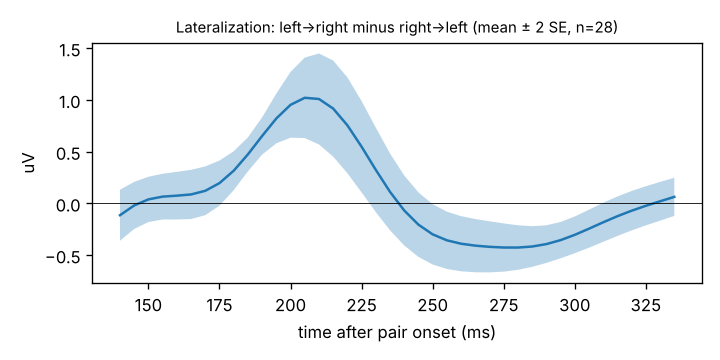
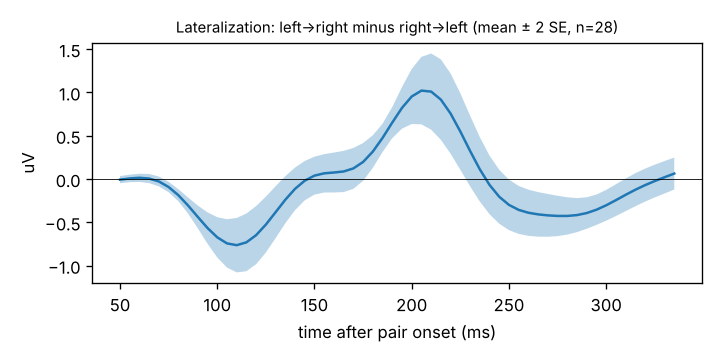
Start epoch window at 0.05 s to include the first stimulus response
Window is now [0.05, 0.34) s (58 samples at 200 Hz). The first lateral
stimulus of each pair evokes a P1-N1 at ~90-130 ms (t = -6.6), which the
previous 0.14 s start excluded. Lag-0 LDA accuracy 0.748 (was 0.739),
peak at lag 0 in 28/28 subjects. Docs, counts and verification report
regenerated.

Claude-Session: https://claude.ai/code/session_01D8wTpTsnSxZQwhroHRiJ2U

diff --git a/aved/config.py b/aved/config.py
@@ -31,7 +31,7 @@ class BadChannelConfig:
 
 @dataclass(frozen=True)
 class EpochConfig:
-    tmin: float = 0.14
+    tmin: float = 0.05
     tmax: float = 0.34
     baseline: None = None
 

diff --git a/reports/preprocessing_verification.md b/reports/preprocessing_verification.md
@@ -1,6 +1,6 @@
 # Preprocessing verification
 
-Generated by `scripts/verify_preprocessing.py` (config fingerprint `e7b2e8457408`).
+Generated by `scripts/verify_preprocessing.py` (config fingerprint `e05e4379886f`).
 
 ## 1. Event structure
 - All 168 event files parsed: 16 markers x (1 + 30 trials) each; markers equal Session_INFO.txt: **OK**
@@ -29,7 +29,7 @@ Generated by `scripts/verify_preprocessing.py` (config fingerprint `e7b2e8457408
 ## 4. Extracted trials vs event files
 - Labels and onsets in every SubXX.npz equal a fresh parse of the event files; label = (trigger == 2): **OK**
 - Trials per file: min 480, max 480; all windows inside recording: True
-- Total trials: 80640 (left->right 40320, right->left 40320); artifact-flagged: 11
+- Total trials: 80640 (left->right 40320, right->left 40320); artifact-flagged: 19
 
 ## 5. Reproducibility
 - Re-processing Sub01 session 3 reproduces the saved trials bit-for-bit: **OK**
@@ -37,44 +37,44 @@ Generated by `scripts/verify_preprocessing.py` (config fingerprint `e7b2e8457408
 ## 6. Lateralization time course (grand average, clean trials, all subjects)
 Class difference (left->right minus right->left) of the hemispheric difference, mean over the 9 mirror pairs, uV:
 
-| t (ms) | 140 | 160 | 180 | 200 | 220 | 240 | 260 | 280 | 300 | 320 |
-|---|---|---|---|---|---|---|---|---|---|---|
-| mean | -0.11 | +0.07 | +0.32 | +0.95 | +0.75 | -0.07 | -0.39 | -0.43 | -0.30 | -0.07 |
-| t-stat | -0.9 | +0.7 | +3.4 | +6.0 | +3.3 | -0.4 | -2.9 | -4.0 | -3.4 | -0.7 |
+| t (ms) | 50 | 70 | 90 | 110 | 130 | 150 | 170 | 190 | 210 | 230 | 250 | 270 | 290 | 310 | 330 |
+|---|---|---|---|---|---|---|---|---|---|---|---|---|---|---|---|
+| mean | -0.01 | -0.03 | -0.44 | -0.76 | -0.38 | +0.04 | +0.12 | +0.65 | +1.01 | +0.32 | -0.30 | -0.42 | -0.39 | -0.18 | +0.02 |
+| t-stat | -0.4 | -1.0 | -6.6 | -4.9 | -2.6 | +0.4 | +1.0 | +7.3 | +4.6 | +1.6 | -2.1 | -3.4 | -4.3 | -1.9 | +0.2 |
 
 ## 7. Trial-label alignment: decoding the label of trial t+lag from epoch t
 Leave-one-session-out shrinkage LDA on all channels x samples, clean trials only. If trials and labels are aligned, accuracy peaks at lag 0.
 
 | subject | lag -1 | lag +0 | lag +1 | permuted | peak lag |
 |---|---|---|---|---|---|
-| Sub01 | 0.536 | 0.720 | 0.586 | 0.508 | +0 |
-| Sub02 | 0.607 | 0.922 | 0.783 | 0.513 | +0 |
-| Sub03 | 0.547 | 0.661 | 0.533 | 0.507 | +0 |
-| Sub04 | 0.547 | 0.677 | 0.553 | 0.520 | +0 |
-| Sub05 | 0.506 | 0.576 | 0.505 | 0.517 | +0 |
-| Sub06 | 0.518 | 0.726 | 0.614 | 0.504 | +0 |
-| Sub07 | 0.555 | 0.711 | 0.620 | 0.498 | +0 |
-| Sub08 | 0.528 | 0.705 | 0.594 | 0.521 | +0 |
-| Sub09 | 0.536 | 0.688 | 0.577 | 0.523 | +0 |
-| Sub10 | 0.562 | 0.804 | 0.593 | 0.497 | +0 |
-| Sub11 | 0.542 | 0.789 | 0.603 | 0.499 | +0 |
-| Sub12 | 0.594 | 0.754 | 0.575 | 0.500 | +0 |
-| Sub13 | 0.554 | 0.676 | 0.528 | 0.486 | +0 |
-| Sub14 | 0.551 | 0.633 | 0.535 | 0.499 | +0 |
-| Sub15 | 0.655 | 0.869 | 0.655 | 0.494 | +0 |
-| Sub16 | 0.515 | 0.616 | 0.527 | 0.491 | +0 |
-| Sub17 | 0.543 | 0.627 | 0.496 | 0.503 | +0 |
-| Sub18 | 0.580 | 0.932 | 0.803 | 0.493 | +0 |
-| Sub19 | 0.577 | 0.844 | 0.637 | 0.503 | +0 |
-| Sub20 | 0.558 | 0.764 | 0.577 | 0.501 | +0 |
-| Sub21 | 0.523 | 0.740 | 0.568 | 0.468 | +0 |
-| Sub22 | 0.537 | 0.725 | 0.582 | 0.518 | +0 |
-| Sub23 | 0.547 | 0.724 | 0.581 | 0.502 | +0 |
-| Sub24 | 0.562 | 0.777 | 0.626 | 0.501 | +0 |
-| Sub25 | 0.534 | 0.772 | 0.584 | 0.507 | +0 |
-| Sub26 | 0.535 | 0.753 | 0.604 | 0.508 | +0 |
-| Sub27 | 0.534 | 0.760 | 0.594 | 0.481 | +0 |
-| Sub28 | 0.533 | 0.760 | 0.588 | 0.501 | +0 |
-| **mean** | **0.551** | **0.739** | **0.594** | 0.502 | |
+| Sub01 | 0.558 | 0.743 | 0.588 | 0.495 | +0 |
+| Sub02 | 0.711 | 0.931 | 0.785 | 0.510 | +0 |
+| Sub03 | 0.597 | 0.658 | 0.521 | 0.518 | +0 |
+| Sub04 | 0.586 | 0.683 | 0.546 | 0.512 | +0 |
+| Sub05 | 0.537 | 0.580 | 0.501 | 0.512 | +0 |
+| Sub06 | 0.551 | 0.749 | 0.599 | 0.516 | +0 |
+| Sub07 | 0.584 | 0.734 | 0.613 | 0.498 | +0 |
+| Sub08 | 0.561 | 0.735 | 0.582 | 0.522 | +0 |
+| Sub09 | 0.566 | 0.719 | 0.575 | 0.490 | +0 |
+| Sub10 | 0.620 | 0.815 | 0.594 | 0.501 | +0 |
+| Sub11 | 0.605 | 0.821 | 0.593 | 0.503 | +0 |
+| Sub12 | 0.654 | 0.758 | 0.573 | 0.503 | +0 |
+| Sub13 | 0.608 | 0.677 | 0.524 | 0.501 | +0 |
+| Sub14 | 0.583 | 0.632 | 0.541 | 0.491 | +0 |
+| Sub15 | 0.746 | 0.865 | 0.648 | 0.498 | +0 |
+| Sub16 | 0.528 | 0.609 | 0.527 | 0.499 | +0 |
+| Sub17 | 0.577 | 0.623 | 0.492 | 0.486 | +0 |
+| Sub18 | 0.719 | 0.943 | 0.792 | 0.498 | +0 |
+| Sub19 | 0.737 | 0.848 | 0.622 | 0.493 | +0 |
+| Sub20 | 0.668 | 0.760 | 0.568 | 0.501 | +0 |
+| Sub21 | 0.645 | 0.749 | 0.564 | 0.466 | +0 |
+| Sub22 | 0.641 | 0.724 | 0.572 | 0.505 | +0 |
+| Sub23 | 0.647 | 0.731 | 0.576 | 0.505 | +0 |
+| Sub24 | 0.651 | 0.780 | 0.619 | 0.508 | +0 |
+| Sub25 | 0.606 | 0.785 | 0.570 | 0.501 | +0 |
+| Sub26 | 0.595 | 0.772 | 0.591 | 0.499 | +0 |
+| Sub27 | 0.624 | 0.769 | 0.582 | 0.482 | +0 |
+| Sub28 | 0.615 | 0.760 | 0.585 | 0.495 | +0 |
+| **mean** | **0.618** | **0.748** | **0.587** | 0.500 | |
 
 - Peak at lag 0 in 28 / 28 subjects; peak lags: {0: 28}

diff --git a/docs/preprocessing.md b/docs/preprocessing.md
@@ -99,40 +99,57 @@ average reference → epoching → resampling → artifact flag.
 
 | Parameter | Value |
 |---|---|
-| Window | **[0.14, 0.34) s** after pair onset (start included, end excluded) = 200 ms |
-| Samples | 40 per channel at 200 Hz (native samples +28 … +67) |
+| Window | **[0.05, 0.34) s** after pair onset (start included, end excluded) = 290 ms |
+| Samples | 58 per channel at 200 Hz (native samples +10 … +67) |
 | Baseline correction | None: the pre-onset interval contains the previous trial's response, and the 1 Hz high-pass already removes offsets |
 
-**Why it starts at 0.14 s:** visual-evoked-response latency. The grand-average
-lateralization effect is absent at 140–160 ms, peaks at ≈200 ms (+0.95 µV,
-first stimulus; t = 6.0 over 28 subjects) and reverses at ≈280 ms
-(−0.43 µV, second stimulus; t = −4.0).
+**Stimulus timing within a trial** (Xu et al. 2018, Fig. 3C): the first
+lateral stimulus is shown at 0 ms and the second at 100 ms, each for 25 ms.
+The paper places the aVEP P1–N1 at 81–130 ms after a stimulus and uses
+0.05–0.45 s after code onset for classification.
 
-**Why it ends at 0.34 s (one pair period):**
-- Trials are spaced 200 ms apart, so trial *t+1*'s own [0.14, 0.34) window
-  begins exactly where trial *t*'s ends. Consecutive epochs share no samples
-  (apart from timing jitter).
-- A longer window mainly adds the *next* trial's response. With [0.14, 0.64)
-  s, the label of trial *t+1* was decodable from epoch *t* almost as well as
-  trial *t*'s own label (mean LDA accuracy 0.712 vs 0.732; 4 subjects even
-  peaked at *t+1*).
-- With [0.14, 0.34) s, lag-0 accuracy stays the same or improves, while
-  lag-+1 accuracy drops sharply: the mean over 28 subjects is 0.739 at lag 0
-  vs 0.594 at lag +1, and all 28 subjects peak at lag 0. Examples (lag 0 /
-  lag +1):
+**Why it starts at 0.05 s:** to include the response to the *first* stimulus.
+The grand-average lateralization class difference, over 28 subjects, has
+three phases inside the window:
 
-  | Subject | [0.14, 0.34) s | [0.14, 0.64) s |
-  |---|---|---|
-  | Sub11 | 0.794 / 0.603 | 0.767 / 0.786 |
-  | Sub21 | 0.739 / 0.566 | 0.731 / 0.696 |
+| Phase | Time | Class difference | Cause |
+|---|---|---|---|
+| 1 | ≈90–130 ms | −0.76 µV at 110 ms (t = −6.6 at 90 ms) | First stimulus, P1–N1 |
+| 2 | ≈190–210 ms | +1.01 µV at 210 ms (t = 7.3 at 190 ms) | Second stimulus, P1–N1 |
+| 3 | ≈250–310 ms | −0.42 µV (t = −4.3 at 290 ms) | Later reversal |
 
-- The longer window remains available by setting `epoch.tmax` (e.g. 0.64,
-  with `target_sfreq: 100`) as an ablation.
+Nothing is visible before 70 ms. An earlier version of the pipeline started
+at 0.14 s and missed phase 1.
+
+**Why it ends at 0.34 s:**
+- This captures phase 3 while limiting the *next* trial's response, which
+  starts 200 ms later and whose own P1–N1 begins at ≈0.28 s.
+- A long window mainly adds the next trial. With [0.14, 0.64) s, the label of
+  trial *t+1* was decodable from epoch *t* almost as well as trial *t*'s own
+  label (mean LDA accuracy 0.712 vs 0.732; 4 subjects peaked at *t+1*).
+
+**Comparison of windows** (leave-one-session-out shrinkage LDA, mean over 28
+subjects; decoding the label of trial *t + lag* from epoch *t*):
+
+| Window | lag −1 | lag 0 | lag +1 | Subjects peaking at lag 0 |
+|---|---|---|---|---|
+| **[0.05, 0.34) s (current)** | 0.618 | **0.748** | 0.587 | 28 / 28 |
+| [0.14, 0.34) s | 0.551 | 0.739 | 0.594 | 28 / 28 |
+| [0.14, 0.64) s | 0.545 | 0.732 | 0.712 | 24 / 28 |
+
+**Trade-off:** starting at 0.05 s raises lag-−1 accuracy (0.551 → 0.618)
+because the first 90 ms of the window overlap the end of the previous trial's
+window. Consecutive epochs therefore share 18 samples. This does not leak
+data under the session-wise splits used for evaluation, because neighbouring
+trials always belong to the same session.
+
+Other windows can be set via `epoch.tmin` and `epoch.tmax` for ablation; for
+example the paper's [0.05, 0.45), or [0.05, 0.64) with `target_sfreq: 100`.
 
 ### 3.5 Resampling
 
 - **Target rate: 200 Hz**, i.e. the native rate is kept (decimation factor 1).
-- With a 200 ms window, 100 Hz would leave only 20 samples, too few for
+- With a 290 ms window, 100 Hz would leave only 29 samples, too few for
   EEGNet's two pooling stages (×4, ×8).
 - The 30 Hz low-pass (stop band from 37.5 Hz) already band-limits the signal,
   so `target_sfreq: 100` (exact 2× decimation of the filtered continuous
@@ -156,7 +173,7 @@ script):
 
 | Key | Shape | Content |
 |---|---|---|
-| `X` | (2880, 21, 40) float32 | Trials, µV |
+| `X` | (2880, 21, 58) float32 | Trials, µV |
 | `y` | (2880,) | 0 = left→right, 1 = right→left |
 | `trigger` | (2880,) | Raw trigger (1/2) |
 | `session`, `block` | (2880,) | 1–6, 1–3 |
